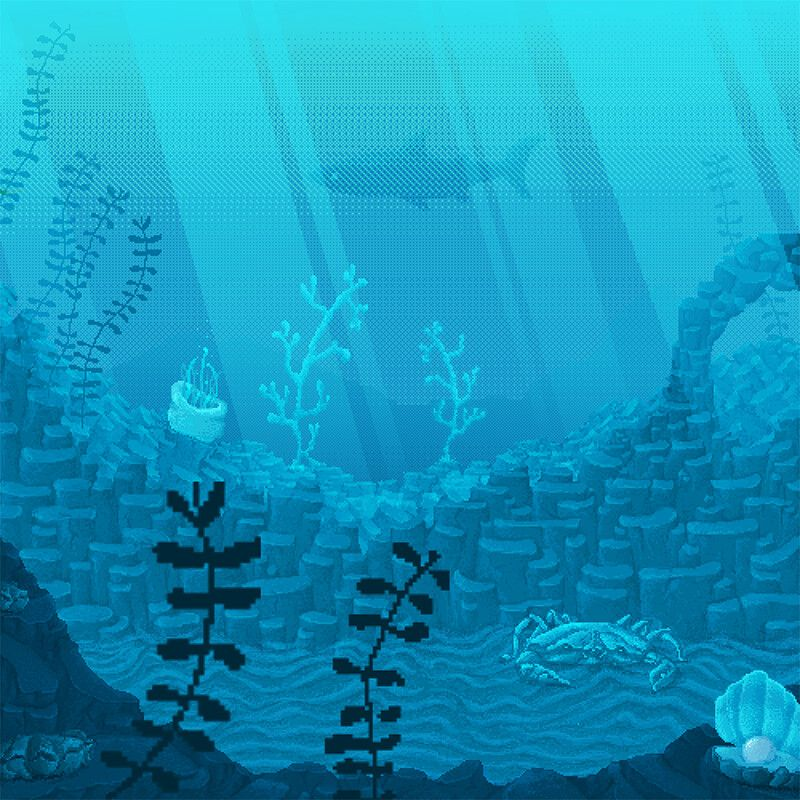
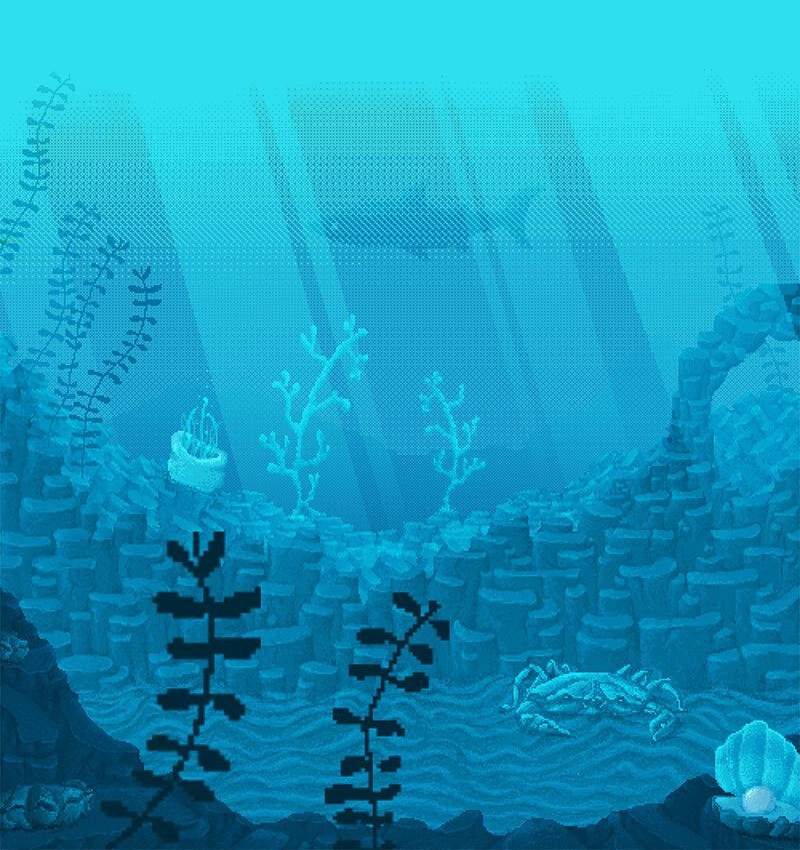
Background music & larger window.

diff --git a/Game.cpp b/Game.cpp
@@ -17,11 +17,13 @@ void Game::initWindow()
 	this->videoMode.width = WINDOW_WIDTH;
 	this->videoMode.height = WINDOW_HEIGHT;
 	this->windowIcon.loadFromFile("Assets/Images/jellyFish2.png");
-	this->window = new sf::RenderWindow(sf::VideoMode(this->videoMode), "OceanInvaders", sf::Style::Titlebar | sf::Style::Close);
+	this->window = new sf::RenderWindow(sf::VideoMode(this->videoMode), "Ocean Invaders", sf::Style::Titlebar | sf::Style::Close);
 	this->window->setIcon(this->windowIcon.getSize().x, this->windowIcon.getSize().y, this->windowIcon.getPixelsPtr());
 	this->backgroundTexture.loadFromFile("Assets/Images/ocean.jpg");
 	this->windowBackground.setTexture(this->backgroundTexture);
-	//this->backgroundMusic.openFromFile("8BitRetroFunk.ogg");
+	this->backgroundMusic.openFromFile("Assets/Audio/8BitRetroFunk.ogg");
+	this->backgroundMusic.setLoop(true);
+	this->backgroundMusic.play();
 	this->window->setFramerateLimit(FRAME_RATE);
 }
 

diff --git a/Game.h b/Game.h
@@ -3,9 +3,6 @@
 #include "Player.h"
 #include "Enemies.h"
 
-/*
-	Class that acts as the game core.
-*/
 class Game {
 private:
 	//Variables
@@ -15,6 +12,7 @@ private:
 	sf::Image windowIcon;
 	sf::Texture backgroundTexture;
 	sf::Sprite windowBackground;
+	sf::Music backgroundMusic;
 	sf::Font gameFont;
 	sf::Text gameOverMessage;
 	sf::Event ev;

diff --git a/Enemies.cpp b/Enemies.cpp
@@ -9,7 +9,7 @@ void Enemies::initEnemies()
 		for (int j = 0; j < FISH_COL; j++) {
 			enemyMap[i][j] = mt() % 3 + 1;
 			fishes[i][j].initFish(enemyMap[i][j]);
-			this->fishes[i][j].place(sf::Vector2f(56.f * j, 56.f * i));
+			this->fishes[i][j].place(sf::Vector2f(56.f * j, 56.f * i + 50.f));
 		}
 	}
 	this->moveType = 2;

diff --git a/Player.cpp b/Player.cpp
@@ -5,7 +5,7 @@
 Player::Player()
 {
 	this->sharkPosition.x = 352.f;
-	this->sharkPosition.y = 755.f;
+	this->sharkPosition.y = 805.f;
 	this->sharkTexture1.loadFromFile("Assets/Images/player1.png");
 	this->sharkTexture2.loadFromFile("Assets/Images/player2.png");
 	this->shark.setTexture(sharkTexture1);

diff --git a/Bullet.cpp b/Bullet.cpp
@@ -42,7 +42,7 @@ void Bullet::move() {
 
 bool Bullet::outOfWindow()
 {
-	if (this->rect.getPosition().y < -20.f || this->rect.getPosition().y > WINDOW_HEIGHT)
+	if (this->rect.getPosition().y < 50.f || this->rect.getPosition().y > WINDOW_HEIGHT)
 		return true;
 	else
 		return false;

diff --git a/OceanInvaders.h b/OceanInvaders.h
@@ -12,7 +12,7 @@
 
 //Window
 const int WINDOW_WIDTH = 800;
-const int WINDOW_HEIGHT = 800;
+const int WINDOW_HEIGHT = 850;
 const int FRAME_RATE = 60;
 
 //Player
